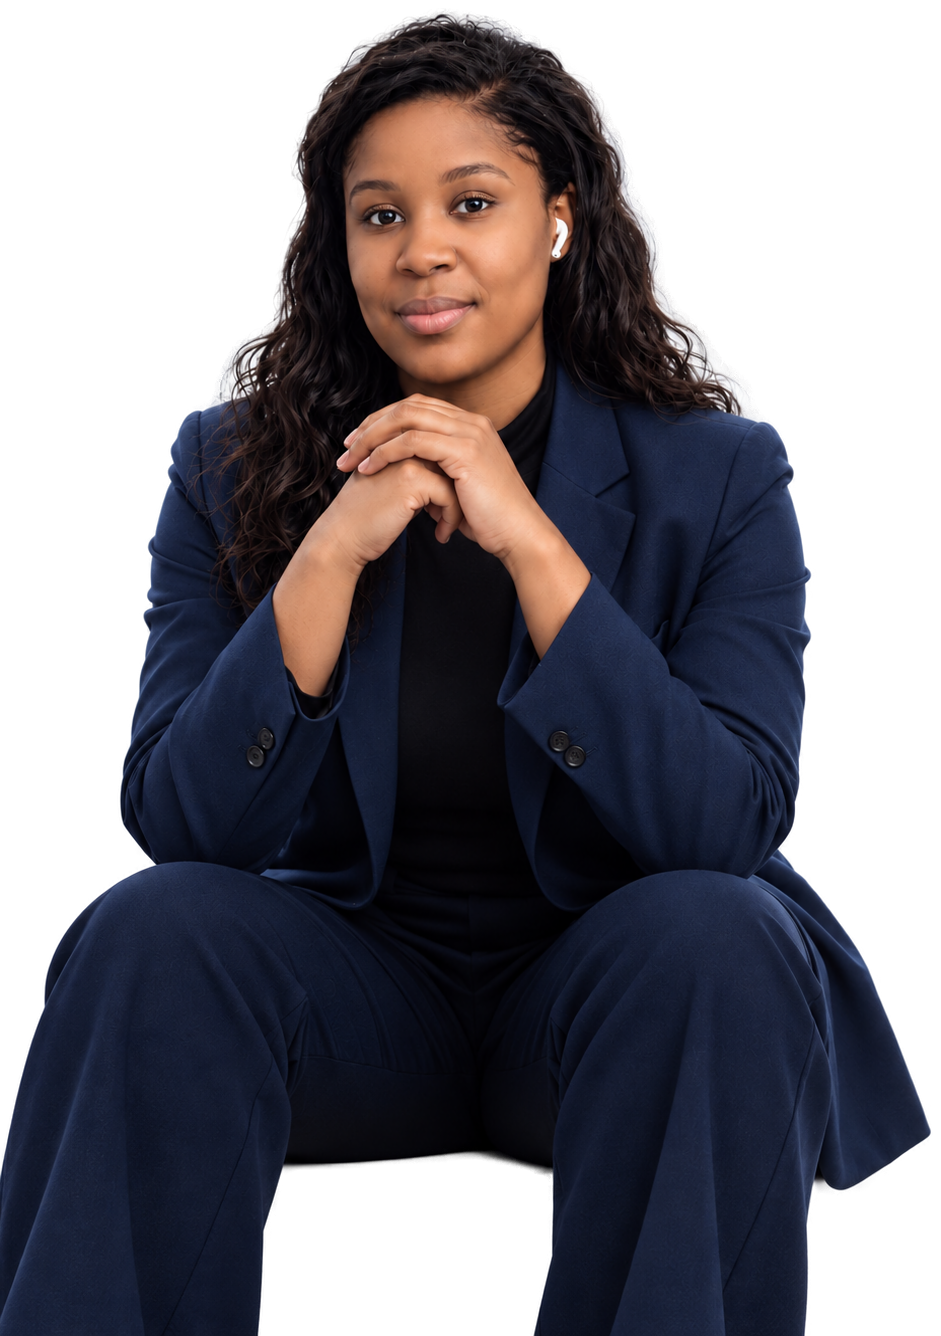
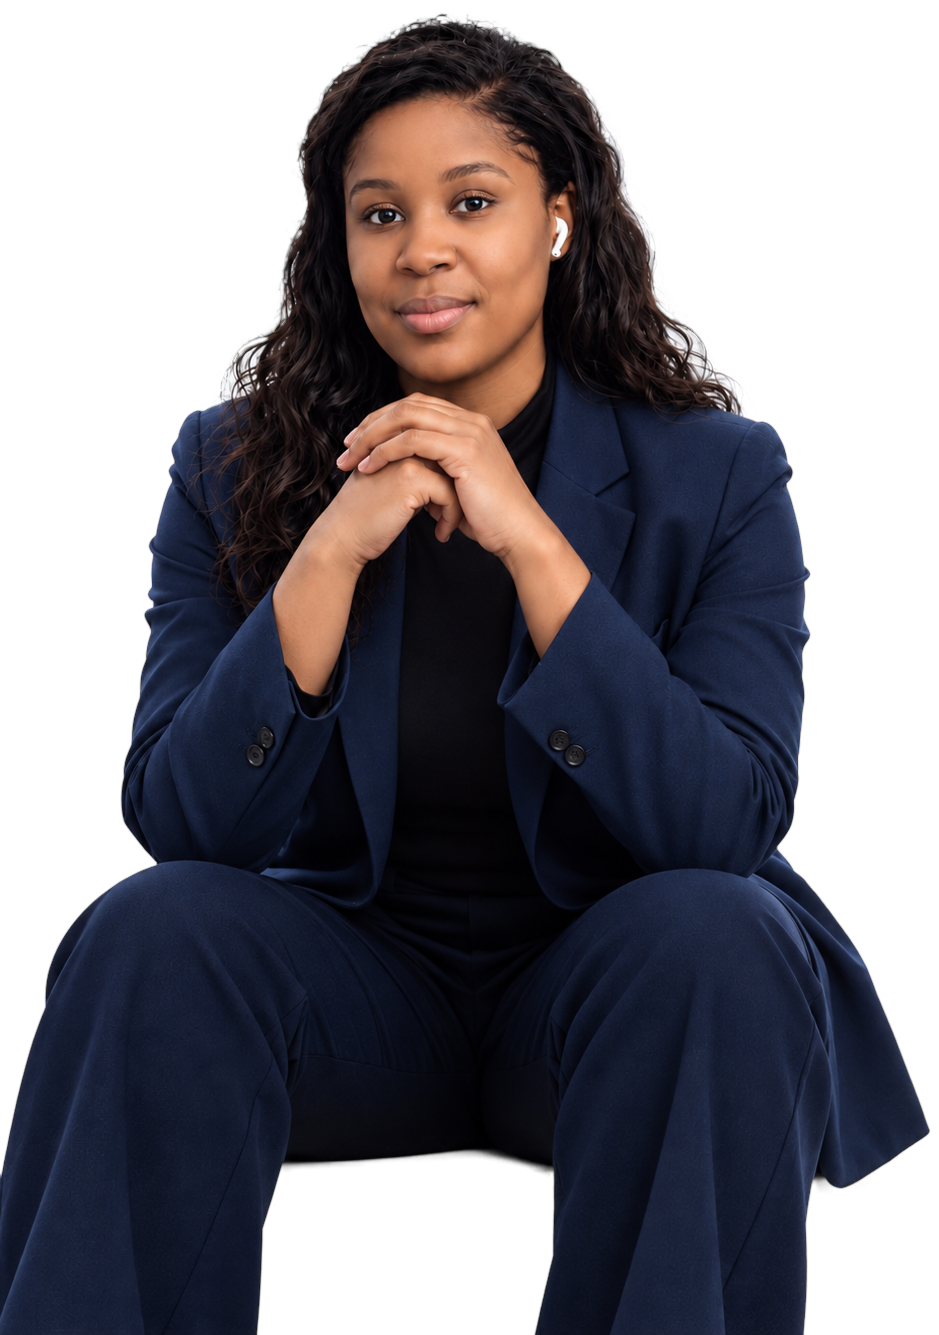
Fix content hidden by unreliable scroll-reveal, polish cutout edge
Two real bugs were making the site look broken, not just "not
pretty": the Projects/Contact headings, the project cards, and the
stat counters all depended on an IntersectionObserver-driven
scroll-reveal that could fail to fire (confirmed via a full-page
screenshot where they rendered fully blank). Remove that system
entirely — content now renders unconditionally, counters animate on
load. Also refine the hero cutout's alpha (gentle erosion + edge
decontamination on top of rembg's matting) to remove the last
whitish fringe visible against the dark theme, and add breathing
room between the hero and the tools strip.

Claude-Session: https://claude.ai/code/session_01P4DZ5SZko3hLvyGkwR6nfo

diff --git a/index.html b/index.html
@@ -61,7 +61,7 @@
   <!-- ============ HERO ============ -->
   <section class="hero-wrap">
     <div class="container">
-      <div class="hero-card reveal">
+      <div class="hero-card">
 
         <p class="hero-label" data-i18n="heroLabel">Olá, eu sou a Sheyd Luísa</p>
         <h1 class="hero-title" data-i18n-html="heroHeadline">Energia com visão<br>de futuro.</h1>
@@ -86,7 +86,7 @@
   </section>
 
   <!-- ============ TOOLS STRIP ============ -->
-  <section class="tools-strip reveal">
+  <section class="tools-strip">
     <div class="container tools-inner">
       <p class="tools-label" data-i18n="toolsLabel">Ferramentas &amp; métodos do dia a dia</p>
       <ul class="tools-list">
@@ -104,9 +104,9 @@
     <div class="container about-grid">
       <div>
         <p class="kicker" data-i18n="aboutKicker">Sobre mim</p>
-        <h2 class="reveal" data-i18n-html="aboutTitle">Engenharia é decisão.<br>Execução é disciplina.</h2>
+        <h2 data-i18n-html="aboutTitle">Engenharia é decisão.<br>Execução é disciplina.</h2>
       </div>
-      <div class="about-copy reveal">
+      <div class="about-copy">
         <p class="about-lede" data-i18n="aboutLede">Sou engenheira e atuo na ponte entre o projeto no papel e a obra entregue — do planejamento técnico à coordenação de equipes em campo.</p>
         <p data-i18n="aboutBody">Gosto de problemas que exigem os dois lados do raciocínio: rigor técnico para desenhar a solução certa, e pragmatismo de execução para tirá-la do papel dentro do prazo, do orçamento e do padrão de qualidade esperado.</p>
         <a href="#contato" class="btn btn-pill">
@@ -117,7 +117,7 @@
     </div>
 
     <div class="container">
-      <div class="photo-grid reveal">
+      <div class="photo-grid">
         <figure><img src="assets/img/portrait-about.jpg" alt="Retrato em ângulo, sorriso confiante" loading="lazy"></figure>
         <figure><img src="assets/img/portrait-face.jpg" alt="Retrato em close" loading="lazy"></figure>
         <figure><img src="assets/img/portrait-detail.jpg" alt="Detalhe das mãos e do terno" loading="lazy" style="object-position: top;"></figure>
@@ -125,7 +125,7 @@
     </div>
 
     <div class="container">
-      <div class="metric-row reveal">
+      <div class="metric-row">
         <div class="metric"><span class="stat-num" data-count="8">0</span><span class="stat-plus">+</span><p data-i18n="statYears">anos de experiência</p></div>
         <div class="metric"><span class="stat-num" data-count="30">0</span><span class="stat-plus">+</span><p data-i18n="metric1">projetos entregues</p></div>
         <div class="metric"><span class="stat-num" data-count="98">0</span><span class="stat-plus">%</span><p data-i18n="metric2">no prazo e no orçamento</p></div>
@@ -139,12 +139,12 @@
     <div class="container">
       <div class="section-head">
         <p class="kicker" data-i18n="projectsKicker">Projetos</p>
-        <h2 class="reveal" data-i18n="projectsTitle">Ideias que viraram obra.</h2>
+        <h2 data-i18n="projectsTitle">Ideias que viraram obra.</h2>
         <p class="section-intro" data-i18n="projectsIntro">Uma seleção de projetos onde engenharia e execução andaram lado a lado, do conceito à entrega final.</p>
       </div>
 
       <div class="project-grid">
-        <article class="project-card reveal">
+        <article class="project-card">
           <span class="project-num">01</span>
           <h3 data-i18n="project1Title">Expansão de Planta Industrial</h3>
           <p data-i18n="project1Desc">Planejamento e coordenação da ampliação de uma linha produtiva, com redesenho de fluxo e redução de retrabalho.</p>
@@ -154,7 +154,7 @@
           </ul>
         </article>
 
-        <article class="project-card reveal">
+        <article class="project-card">
           <span class="project-num">02</span>
           <h3 data-i18n="project2Title">Gestão de Obra Corporativa</h3>
           <p data-i18n="project2Desc">Coordenação de equipes multidisciplinares em obra comercial, com entrega antecipada e dentro do orçamento.</p>
@@ -164,7 +164,7 @@
           </ul>
         </article>
 
-        <article class="project-card reveal">
+        <article class="project-card">
           <span class="project-num">03</span>
           <h3 data-i18n="project3Title">Otimização de Processos</h3>
           <p data-i18n="project3Desc">Mapeamento de gargalos operacionais e implementação de controle de qualidade que elevou a eficiência da equipe.</p>
@@ -181,7 +181,7 @@
   <section class="contact" id="contato">
     <div class="container contact-inner">
       <p class="kicker" data-i18n="contactKicker">Contato</p>
-      <h2 class="reveal" data-i18n-html="contactTitle">Vamos construir o<br>próximo projeto?</h2>
+      <h2 data-i18n-html="contactTitle">Vamos construir o<br>próximo projeto?</h2>
       <p class="section-intro" data-i18n="contactIntro">Aberta a conversas sobre novos projetos, consultoria ou oportunidades de longo prazo.</p>
 
       <a href="mailto:seu@email.com" class="btn btn-pill btn-lg">

diff --git a/assets/js/main.js b/assets/js/main.js
@@ -168,26 +168,6 @@
   }
 
   /* ------------------------------------------------------------------ */
-  /* Scroll reveal                                                      */
-  /* ------------------------------------------------------------------ */
-  function initReveal() {
-    var items = document.querySelectorAll(".reveal");
-    if (!("IntersectionObserver" in window)) {
-      items.forEach(function (el) { el.classList.add("is-visible"); });
-      return;
-    }
-    var observer = new IntersectionObserver(function (entries) {
-      entries.forEach(function (entry) {
-        if (entry.isIntersecting) {
-          entry.target.classList.add("is-visible");
-          observer.unobserve(entry.target);
-        }
-      });
-    }, { threshold: 0.12, rootMargin: "0px 0px -40px 0px" });
-    items.forEach(function (el) { observer.observe(el); });
-  }
-
-  /* ------------------------------------------------------------------ */
   /* Header hide-on-scroll                                               */
   /* ------------------------------------------------------------------ */
   function initHeaderScroll() {
@@ -227,13 +207,7 @@
       window.requestAnimationFrame(step);
     }
 
-    if (!("IntersectionObserver" in window)) { counters.forEach(animate); return; }
-    var observer = new IntersectionObserver(function (entries) {
-      entries.forEach(function (entry) {
-        if (entry.isIntersecting) { animate(entry.target); observer.unobserve(entry.target); }
-      });
-    }, { threshold: 0.5 });
-    counters.forEach(function (el) { observer.observe(el); });
+    counters.forEach(animate);
   }
 
   /* ------------------------------------------------------------------ */
@@ -249,7 +223,6 @@
     initTheme();
     initLang();
     initMobileNav();
-    initReveal();
     initHeaderScroll();
     initCounters();
     initBackToTop();

diff --git a/assets/css/style.css b/assets/css/style.css
@@ -77,8 +77,6 @@ svg{ fill: none; stroke: currentColor; stroke-width: 1.8; stroke-linecap: round;
   *{ animation-duration: .01ms !important; transition-duration: .01ms !important; }
 }
 
-.reveal{ opacity: 0; transform: translateY(24px); transition: opacity .7s var(--ease), transform .7s var(--ease); }
-.reveal.is-visible{ opacity: 1; transform: translateY(0); }
 
 /* ==========================================================================
    Buttons
@@ -174,7 +172,7 @@ html[data-lang="pt"] [data-lang-opt="pt"], html[data-lang="en"] [data-lang-opt="
 /* ==========================================================================
    Hero
    ========================================================================== */
-.hero-wrap{ padding-top: 150px; padding-bottom: 20px; }
+.hero-wrap{ padding-top: 150px; padding-bottom: 60px; }
 
 .hero-card{
   position: relative;
